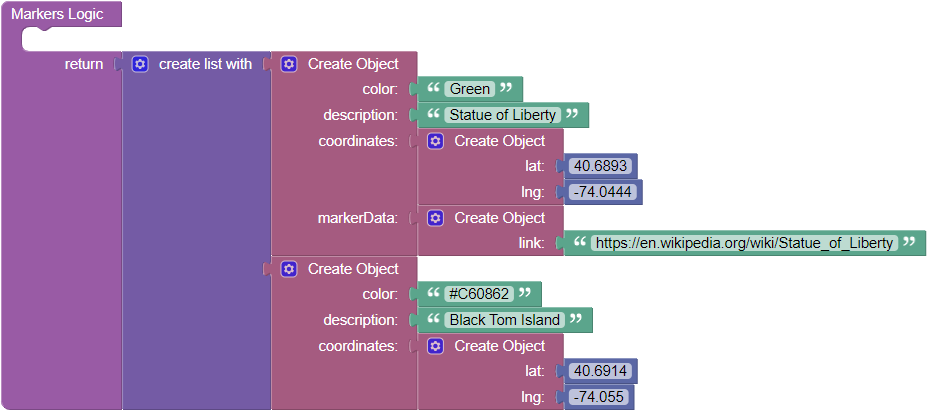
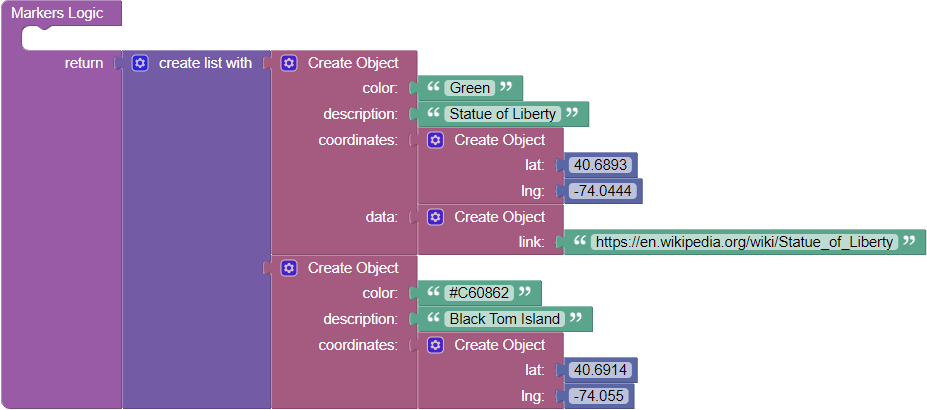
fixed problem removing markers from map, added possibility change color when marker is active, added function changeMarkerColor, updated README.md

diff --git a/components/bl-mapbox/src/helpers.js b/components/bl-mapbox/src/helpers.js
@@ -1,4 +1,4 @@
-import { useEffect, useState,useRef } from 'react';
+import { useEffect, useRef, useState } from 'react';
 
 import Mapbox from './lib/mapbox';
 import MapboxDirections from './lib/mapbox-directions';
@@ -176,22 +176,14 @@ export const initMapboxLibrary = (mapRef, mapContainerRef, component, eventHandl
 
 };
 
-/*export const useMarkers = (markers, mapRef, onMarkerClick) => {
-  const [markersArray, setMarkersArray] = useState([]);
-
-  const markers = useMemo(() => {
-
-  },[markers])
+export const useMarkers = (markers, mapRef, onMarkerClick) => {
+  const markerElements = useRef();
 
   useEffect(() => {
+    removeMarkers(markerElements.current);
+
     if (markers?.length) {
-      markersArray.forEach(marker => {
-        marker.remove();
-      });
-
-      setMarkersArray([]);
-
-      markers.forEach(markerItem => {
+      markerElements.current = markers.map(markerItem => {
         const { color, description, data, coordinates: { lat, lng } } = markerItem;
 
         const marker = new Marker({ color })
@@ -204,19 +196,37 @@ export const initMapboxLibrary = (mapRef, mapContainerRef, component, eventHandl
           const coordinates = { lat, lng };
 
           onMarkerClick({ coordinates, description: description || '', data });
+
+          changeMarkerColor(marker);
         });
 
         if (description) {
           popup.setText(description);
         }
 
-        setMarkersArray(prev => [...prev, marker]);
+        popup.on('close', () => {
+          changeMarkerColor(marker);
+        });
 
         marker.setPopup(popup);
+
+        return marker;
       });
     }
   }, [markers]);
-};*/
+};
+
+const removeMarkers = markers => {
+  if (markers?.length) {
+    markers.forEach(marker => {
+      marker.remove();
+    });
+  }
+};
+
+const changeMarkerColor = marker => {
+  marker.getElement().childNodes[0].classList.toggle('mapbox-marker-active');
+};
 
 const updatePolygonsArray = (polygons, mapRef, polygonsArray, setPolygonsArray, map) => {
   polygonsArray.forEach(polygon => {
@@ -335,172 +345,3 @@ export const useGeolocation = (mapRef, onDeterminingGeoposition, map) => {
     });
   });
 };
-
-const isEqual = (first, second) => {
-  if (first === second) {
-    return true;
-  }
-  if ((first === undefined || second === undefined || first === null || second === null)
-    && (first || second)) {
-    return false;
-  }
-  const firstType = first?.constructor.name;
-  const secondType = second?.constructor.name;
-  if (firstType !== secondType) {
-    return false;
-  }
-  if (firstType === 'Array') {
-    if (first.length !== second.length) {
-      return false;
-    }
-    let equal = true;
-    for (let i = 0; i < first.length; i++) {
-      if (!isEqual(first[i], second[i])) {
-        equal = false;
-        break;
-      }
-    }
-    return equal;
-  }
-  if (firstType === 'Object') {
-    let equal = true;
-    const fKeys = Object.keys(first);
-    const sKeys = Object.keys(second);
-    if (fKeys.length !== sKeys.length) {
-      return false;
-    }
-    for (let i = 0; i < fKeys.length; i++) {
-      if (first[fKeys[i]] && second[fKeys[i]]) {
-        if (first[fKeys[i]] === second[fKeys[i]]) {
-          continue; // eslint-disable-line
-        }
-        if (first[fKeys[i]] && (first[fKeys[i]].constructor.name === 'Array'
-          || first[fKeys[i]].constructor.name === 'Object')) {
-          equal = isEqual(first[fKeys[i]], second[fKeys[i]]);
-          if (!equal) {
-            break;
-          }
-        } else if (first[fKeys[i]] !== second[fKeys[i]]) {
-          equal = false;
-          break;
-        }
-      } else if ((first[fKeys[i]] && !second[fKeys[i]]) || (!first[fKeys[i]] && second[fKeys[i]])) {
-        equal = false;
-        break;
-      }
-    }
-    return equal;
-  }
-  return first === second;
-};
-
-export function get(object, path) {
-  const _path = Array.isArray(path)
-    ? path
-    : path.split('.');
-  if (object && _path.length) return ownGet(object[_path.shift()], _path);
-  return object;
-}
-
-export const isDataChanged = (prevData = {}, nextData = {}, propsKeys, strictEqual = false) => {
-  const isEqual = strictEqual ? (a, b) => a === b : isEqual;
-
-  if (!propsKeys || !propsKeys.length) {
-    return !isEqual(prevData, nextData);
-  }
-
-  for (let i = 0; i < propsKeys.length; i++) {
-    const propName = propsKeys[i];
-
-    if (!isEqual(get(prevData, propName), get(nextData, propName))) {
-      return true;
-    }
-  }
-
-  return false;
-};
-
-export function usePrevData(data) {
-  const prevRef = useRef()
-  const prevData = prevRef.current
-
-  useEffect(() => {
-    prevRef.current = data
-  })
-
-  return prevData
-}
-
-export const useMarkers = (markers, mapRef, onMarkerClick) => {
-  const prevData = usePrevData(markers);
-  const markerElements = useRef();
-
-
-  useEffect(() => {
-    if (isDataChanged(prevData, markers)) {
-      markerElements.current?.forEach(marker => {
-        marker.remove();
-      });
-
-      markerElements.current = markers.map(markerItem => {
-        const { color, description, data, coordinates: { lat, lng } } = markerItem;
-
-        const marker = new Marker({ color })
-          .setLngLat([lng, lat])
-          .addTo(mapRef.current);
-
-        const popup = new Popup();
-
-        popup.on('open', () => {
-          const coordinates = { lat, lng };
-
-          onMarkerClick({ coordinates, description: description || '', data });
-        });
-
-        if (description) {
-          popup.setText(description);
-        }
-
-        marker.setPopup(popup);
-
-        return marker;
-      });
-    }
-
-    return markerElements.current;
-
-  }, [markers]);
-}
-
-//Marker update color
-/*
-          const el = marker.getElement().addEventListener('click', () => {
-            const element = marker.getElement();
-            const elem = document.querySelector('svg path[fill="' + marker._color + '"]').setAttribute('fill', 'red');
-            console.log(elem);
-            .setAttribute('fill', 'red');
-            marker._element.childNodes[0].childNodes[2].attributes.fill.value = 'red';
-            marker._color = 'red';
-            marker._update();
-
-            console.log(marker);
-            console.log(marker.getElement())
-            onMarkerClick({ coordinates, description: description || '', data, element });
-          })
-
-                  popup.on('open', () => {
-          const coordinates = { lat, lng };
-
-          onMarkerClick({ coordinates, description: description || '', data });
-
-          marker._element.childNodes[0].childNodes[2].attributes.fill.value = 'red';
-          marker._color = 'red';
-          marker._update({color:'red'});
-        });
-
-        popup.on('close', () => {
-          marker._element.childNodes[0].childNodes[2].attributes.fill.value = color;
-          marker._color = color;
-          marker._update(()=> newMarker({color}));
-        })
-*/

diff --git a/components/bl-mapbox/styles/index.less b/components/bl-mapbox/styles/index.less
@@ -4,6 +4,7 @@
 
 @bl-customComponent-mapbox-height: 400px;
 @bl-customComponent-mapbox-width: 600px;
+@bl-customComponent-mapbox-marker-click-color: red;
 
 .bl-customComponent-mapbox {
   height: @bl-customComponent-mapbox-height;
@@ -16,5 +17,9 @@
 
   .mapboxgl-ctrl-geocoder--input {
     padding: 10px 10px 10px 30px !important;
+  }
+
+  .mapbox-marker-active path {
+    fill: @bl-customComponent-mapbox-marker-click-color;
   }
 }

diff --git a/components/bl-mapbox/README.md b/components/bl-mapbox/README.md
@@ -34,7 +34,7 @@ The component covers basic features of the library and allows you in a couple cl
 | Name                       | Triggers                               | Context Blocks                                                                                                                     |
 |----------------------------|----------------------------------------|------------------------------------------------------------------------------------------------------------------------------------|
 | On Click                   | when a user click on map               | Coordinates: `{lat: Number, lng: Number}`                                                                                          |
-| On Marker Click            | when a user click on a marker          | Coordinates: `{lat: Number, lng: Number}` <br/> Description: `String` <br/> Marker: `String |\ Number \| Boolean \| Object`        |
+| On Marker Click            | when a user click on a marker          | Coordinates: `{lat: Number, lng: Number}` <br/> Description: `String` <br/> Data: `String` \| `Number` \| `Boolean` \| `Object`    |
 | On Polygon Click           | when a user click on a polygon         | Coordinates: `{lat: Number, lng: Number}` <br/> Description: `String`                                                              |
 | On Determining Geoposition | when a user determining geoposition    | Coordinates: `{lat: Number, lng: Number}`                                                                                          |
 | On Pan Event               | when a user moves the map around       | Center: `{lat: Number, lng: Number}` <br/> North East: `{lat: Number, lng: Number}` <br/> South West: `{lat: Number, lng: Number}` |
@@ -72,6 +72,7 @@ The component covers basic features of the library and allows you in a couple cl
 ````
 @bl-customComponent-mapbox-height: 400px;
 @bl-customComponent-mapbox-width: 600px;
+@bl-customComponent-mapbox-marker-click-color: red;
 ````
 ## Codeless Examples
 
@@ -82,7 +83,7 @@ Addition of markers on map:
 <details><summary>Codeless example</summary>
 
 ````javascript
-<block xmlns="http://www.w3.org/1999/xhtml" type="lists_create_with" id="b9}sV8~B5PS`k8ea/EOw" x="234" y="117"><mutation items="2"></mutation><value name="ADD0"><block type="create_object" id="A^B)*]OAuv{{C`=@?L!D"><mutation><properties><item id="property" prop-name="color"></item><item id="property" prop-name="description"></item><item id="property" prop-name="coordinates"></item><item id="property" prop-name="data"></item></properties></mutation><value name="create_object_mutator_container_properties_stack_property0"><block type="text" id="ZzsB]]YMbZ0@`0q#T#:v"><field name="TEXT">Green</field></block></value><value name="create_object_mutator_container_properties_stack_property1"><block type="text" id="Ba-|,vgYU55y2:~J0`RM"><field name="TEXT">Statue of Liberty</field></block></value><value name="create_object_mutator_container_properties_stack_property2"><block type="create_object" id="n3a[eKH}TuU~`9f/K38}"><mutation><properties><item id="property" prop-name="lat"></item><item id="property" prop-name="lng"></item></properties></mutation><value name="create_object_mutator_container_properties_stack_property0"><block type="math_number" id="2*_74uBe=KEcK~v1j5w2"><field name="NUM">40.6893</field></block></value><value name="create_object_mutator_container_properties_stack_property1"><block type="math_number" id="ANaxn3f:F]XFk!.BdXcy"><field name="NUM">-74.0444</field></block></value></block></value><value name="create_object_mutator_container_properties_stack_property3"><block type="create_object" id="kjQA%.)_fHqQ?VO_~S{m"><mutation><properties><item id="property" prop-name="link"></item></properties></mutation><value name="create_object_mutator_container_properties_stack_property0"><block type="text" id="sp=EC5O/5:#U8GBG?RON"><field name="TEXT">https://en.wikipedia.org/wiki/Statue_of_Liberty</field></block></value></block></value></block></value><value name="ADD1"><block type="create_object" id="ba%YP^@v-Tsl4Us1EB.Q"><mutation><properties><item id="property" prop-name="color"></item><item id="property" prop-name="description"></item><item id="property" prop-name="coordinates"></item></properties></mutation><value name="create_object_mutator_container_properties_stack_property0"><block type="text" id="Taj=phS?A9GB:PWuDI^W"><field name="TEXT">#C60862</field></block></value><value name="create_object_mutator_container_properties_stack_property1"><block type="text" id="1v8tK(v-rQxdg~@O/MP^"><field name="TEXT">Black Tom Island</field></block></value><value name="create_object_mutator_container_properties_stack_property2"><block type="create_object" id="drq=/#Xy]Am[zeGsA2+f"><mutation><properties><item id="property" prop-name="lat"></item><item id="property" prop-name="lng"></item></properties></mutation><value name="create_object_mutator_container_properties_stack_property0"><block type="math_number" id=";myw^3,HdazifF^AC@r2"><field name="NUM">40.6914</field></block></value><value name="create_object_mutator_container_properties_stack_property1"><block type="math_number" id="C@;VLOP^YfU1w+7#H?N("><field name="NUM">-74.055</field></block></value></block></value></block></value></block>
+<block xmlns="http://www.w3.org/1999/xhtml" type="lists_create_with" id="b9}sV8~B5PS`k8ea/EOw" x="218" y="112"><mutation items="2"></mutation><value name="ADD0"><block type="create_object" id="A^B)*]OAuv{{C`=@?L!D"><mutation><properties><item id="property" prop-name="color"></item><item id="property" prop-name="description"></item><item id="property" prop-name="coordinates"></item><item id="property" prop-name="data"></item></properties></mutation><value name="create_object_mutator_container_properties_stack_property0"><block type="text" id="ZzsB]]YMbZ0@`0q#T#:v"><field name="TEXT">Green</field></block></value><value name="create_object_mutator_container_properties_stack_property1"><block type="text" id="Ba-|,vgYU55y2:~J0`RM"><field name="TEXT">Statue of Liberty</field></block></value><value name="create_object_mutator_container_properties_stack_property2"><block type="create_object" id="n3a[eKH}TuU~`9f/K38}"><mutation><properties><item id="property" prop-name="lat"></item><item id="property" prop-name="lng"></item></properties></mutation><value name="create_object_mutator_container_properties_stack_property0"><block type="math_number" id="2*_74uBe=KEcK~v1j5w2"><field name="NUM">40.6893</field></block></value><value name="create_object_mutator_container_properties_stack_property1"><block type="math_number" id="ANaxn3f:F]XFk!.BdXcy"><field name="NUM">-74.0444</field></block></value></block></value><value name="create_object_mutator_container_properties_stack_property3"><block type="create_object" id="kjQA%.)_fHqQ?VO_~S{m"><mutation><properties><item id="property" prop-name="link"></item></properties></mutation><value name="create_object_mutator_container_properties_stack_property0"><block type="text" id="sp=EC5O/5:#U8GBG?RON"><field name="TEXT">https://en.wikipedia.org/wiki/Statue_of_Liberty</field></block></value></block></value></block></value><value name="ADD1"><block type="create_object" id="ba%YP^@v-Tsl4Us1EB.Q"><mutation><properties><item id="property" prop-name="color"></item><item id="property" prop-name="description"></item><item id="property" prop-name="coordinates"></item></properties></mutation><value name="create_object_mutator_container_properties_stack_property0"><block type="text" id="Taj=phS?A9GB:PWuDI^W"><field name="TEXT">#C60862</field></block></value><value name="create_object_mutator_container_properties_stack_property1"><block type="text" id="1v8tK(v-rQxdg~@O/MP^"><field name="TEXT">Black Tom Island</field></block></value><value name="create_object_mutator_container_properties_stack_property2"><block type="create_object" id="drq=/#Xy]Am[zeGsA2+f"><mutation><properties><item id="property" prop-name="lat"></item><item id="property" prop-name="lng"></item></properties></mutation><value name="create_object_mutator_container_properties_stack_property0"><block type="math_number" id=";myw^3,HdazifF^AC@r2"><field name="NUM">40.6914</field></block></value><value name="create_object_mutator_container_properties_stack_property1"><block type="math_number" id="C@;VLOP^YfU1w+7#H?N("><field name="NUM">-74.055</field></block></value></block></value></block></value></block>
 ````
 
 </details>
